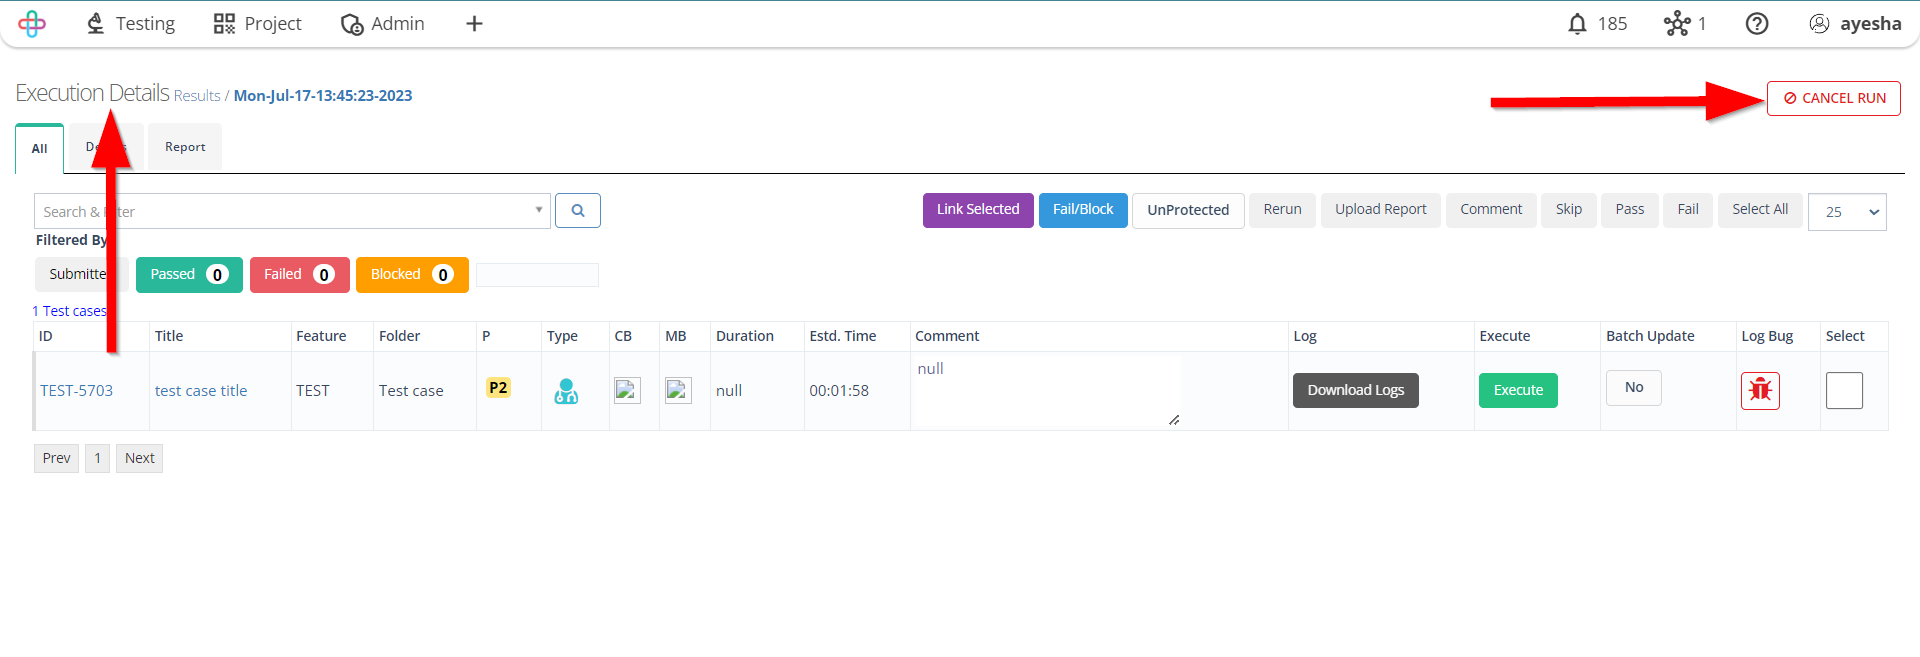
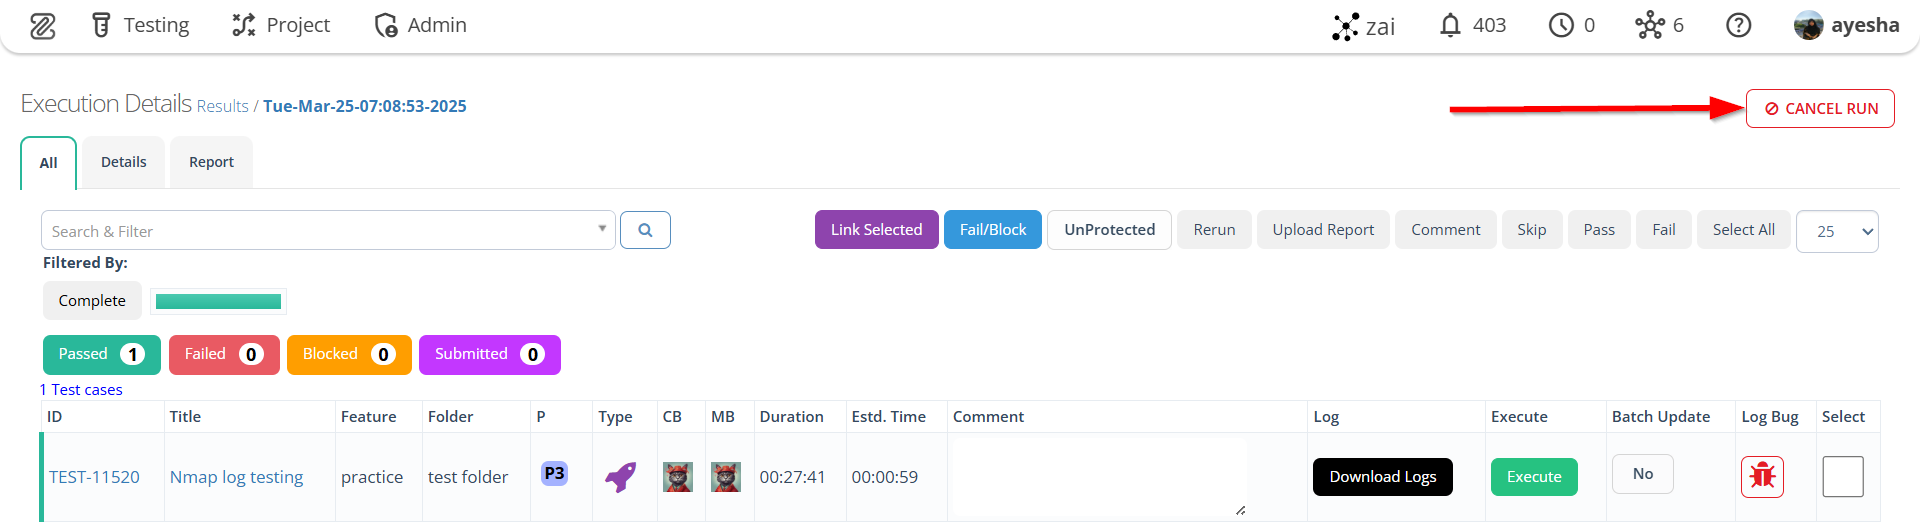
zAI docs

diff --git a/docs/how-tos/how-to-cancel-a-deploy-run.md b/docs/how-tos/how-to-cancel-a-deploy-run.md
@@ -1,6 +1,6 @@
 ---
 id: how-to-cancel-a-deploy-run
-title: How to cancel a deploy run
+title: Cancel a deploy run
 ---
 
 ## Description
@@ -17,30 +17,36 @@ Ultimately, cancelling the **Deploy Run** of test cases allows organizations to 
 
 ## Steps
 
-1. From the **Menu Bar**, go to the **Testing** then **History** option.
+1. From the **Menu Bar**, go to the **Testing** menu, then select the **History** option.
 
 ![](/img/how-tos/how-to-cancel-a-deploy-run/history-button.png)
 
 2. Go to the **Results** page.
 
-3. Click on the **Run ID** of the required test case.  
+![](/img/how-tos/how-to-cancel-a-deploy-run/history-result.png)
+
+3. To cancel the deployment run of a specific test case, click on the **Run ID** of that test case within the desired test set. However, to cancel the deployment run of an entire test set, click on the **title** of the corresponding test set card. 
     > *Run ID* refers to a unique identifier assigned to a specific test run, allowing for easy tracking and reference of the executed tests and their associated results.
+
+    > A *test set card* refers to a visual representation or container that displays key information about a specific test set.  
+
+- **Title of a test set card**
+
+![](/img/how-tos/how-to-cancel-a-deploy-run/set-title.png)
+
+- **Run ID of a test case within the desired test set**
 
 ![](/img/how-tos/how-to-cancel-a-deploy-run/results-history.png)
 
 4. Go to the **Execution Details** page.
-5. Click on the **CANCEL RUN** button.  
-    > *Execution Details* page provide comprehensive information about the test execution, including test case status, logs, and other relevant details for analysis and troubleshooting.  
+    > *Execution Details* page provide comprehensive information about the test execution, including test case status, logs, and other relevant details for analysis and troubleshooting.
 
+![](/img/how-tos/how-to-cancel-a-deploy-run/execution-history.png)
+
+5. Click on the **CANCEL RUN** button.  
     > The function of *CANCEL RUN* button is to halt the ongoing test execution process, stopping further execution of test cases, and preserving the current state for analysis or debugging purposes.
 
 ![](/img/how-tos/how-to-cancel-a-deploy-run/cancel-run.png)
-
-6. Go to the **Results** page again and check the **Status** of the required test case whether it has been canceled or not.
-   > The *Status* refers to the outcome or result of executing the test, indicating whether it passed, failed, or has any other relevant status such as blocked, cancelled, or in-progress.  
-   > Checking the *Status* of the test case is necessary to determine whether the test case has passed, failed, cancelled, or encountered any issues, providing insights into the quality and stability of the software being tested.
-
-![](/img/how-tos/how-to-cancel-a-deploy-run/cancel-status.png)
 
 
 
